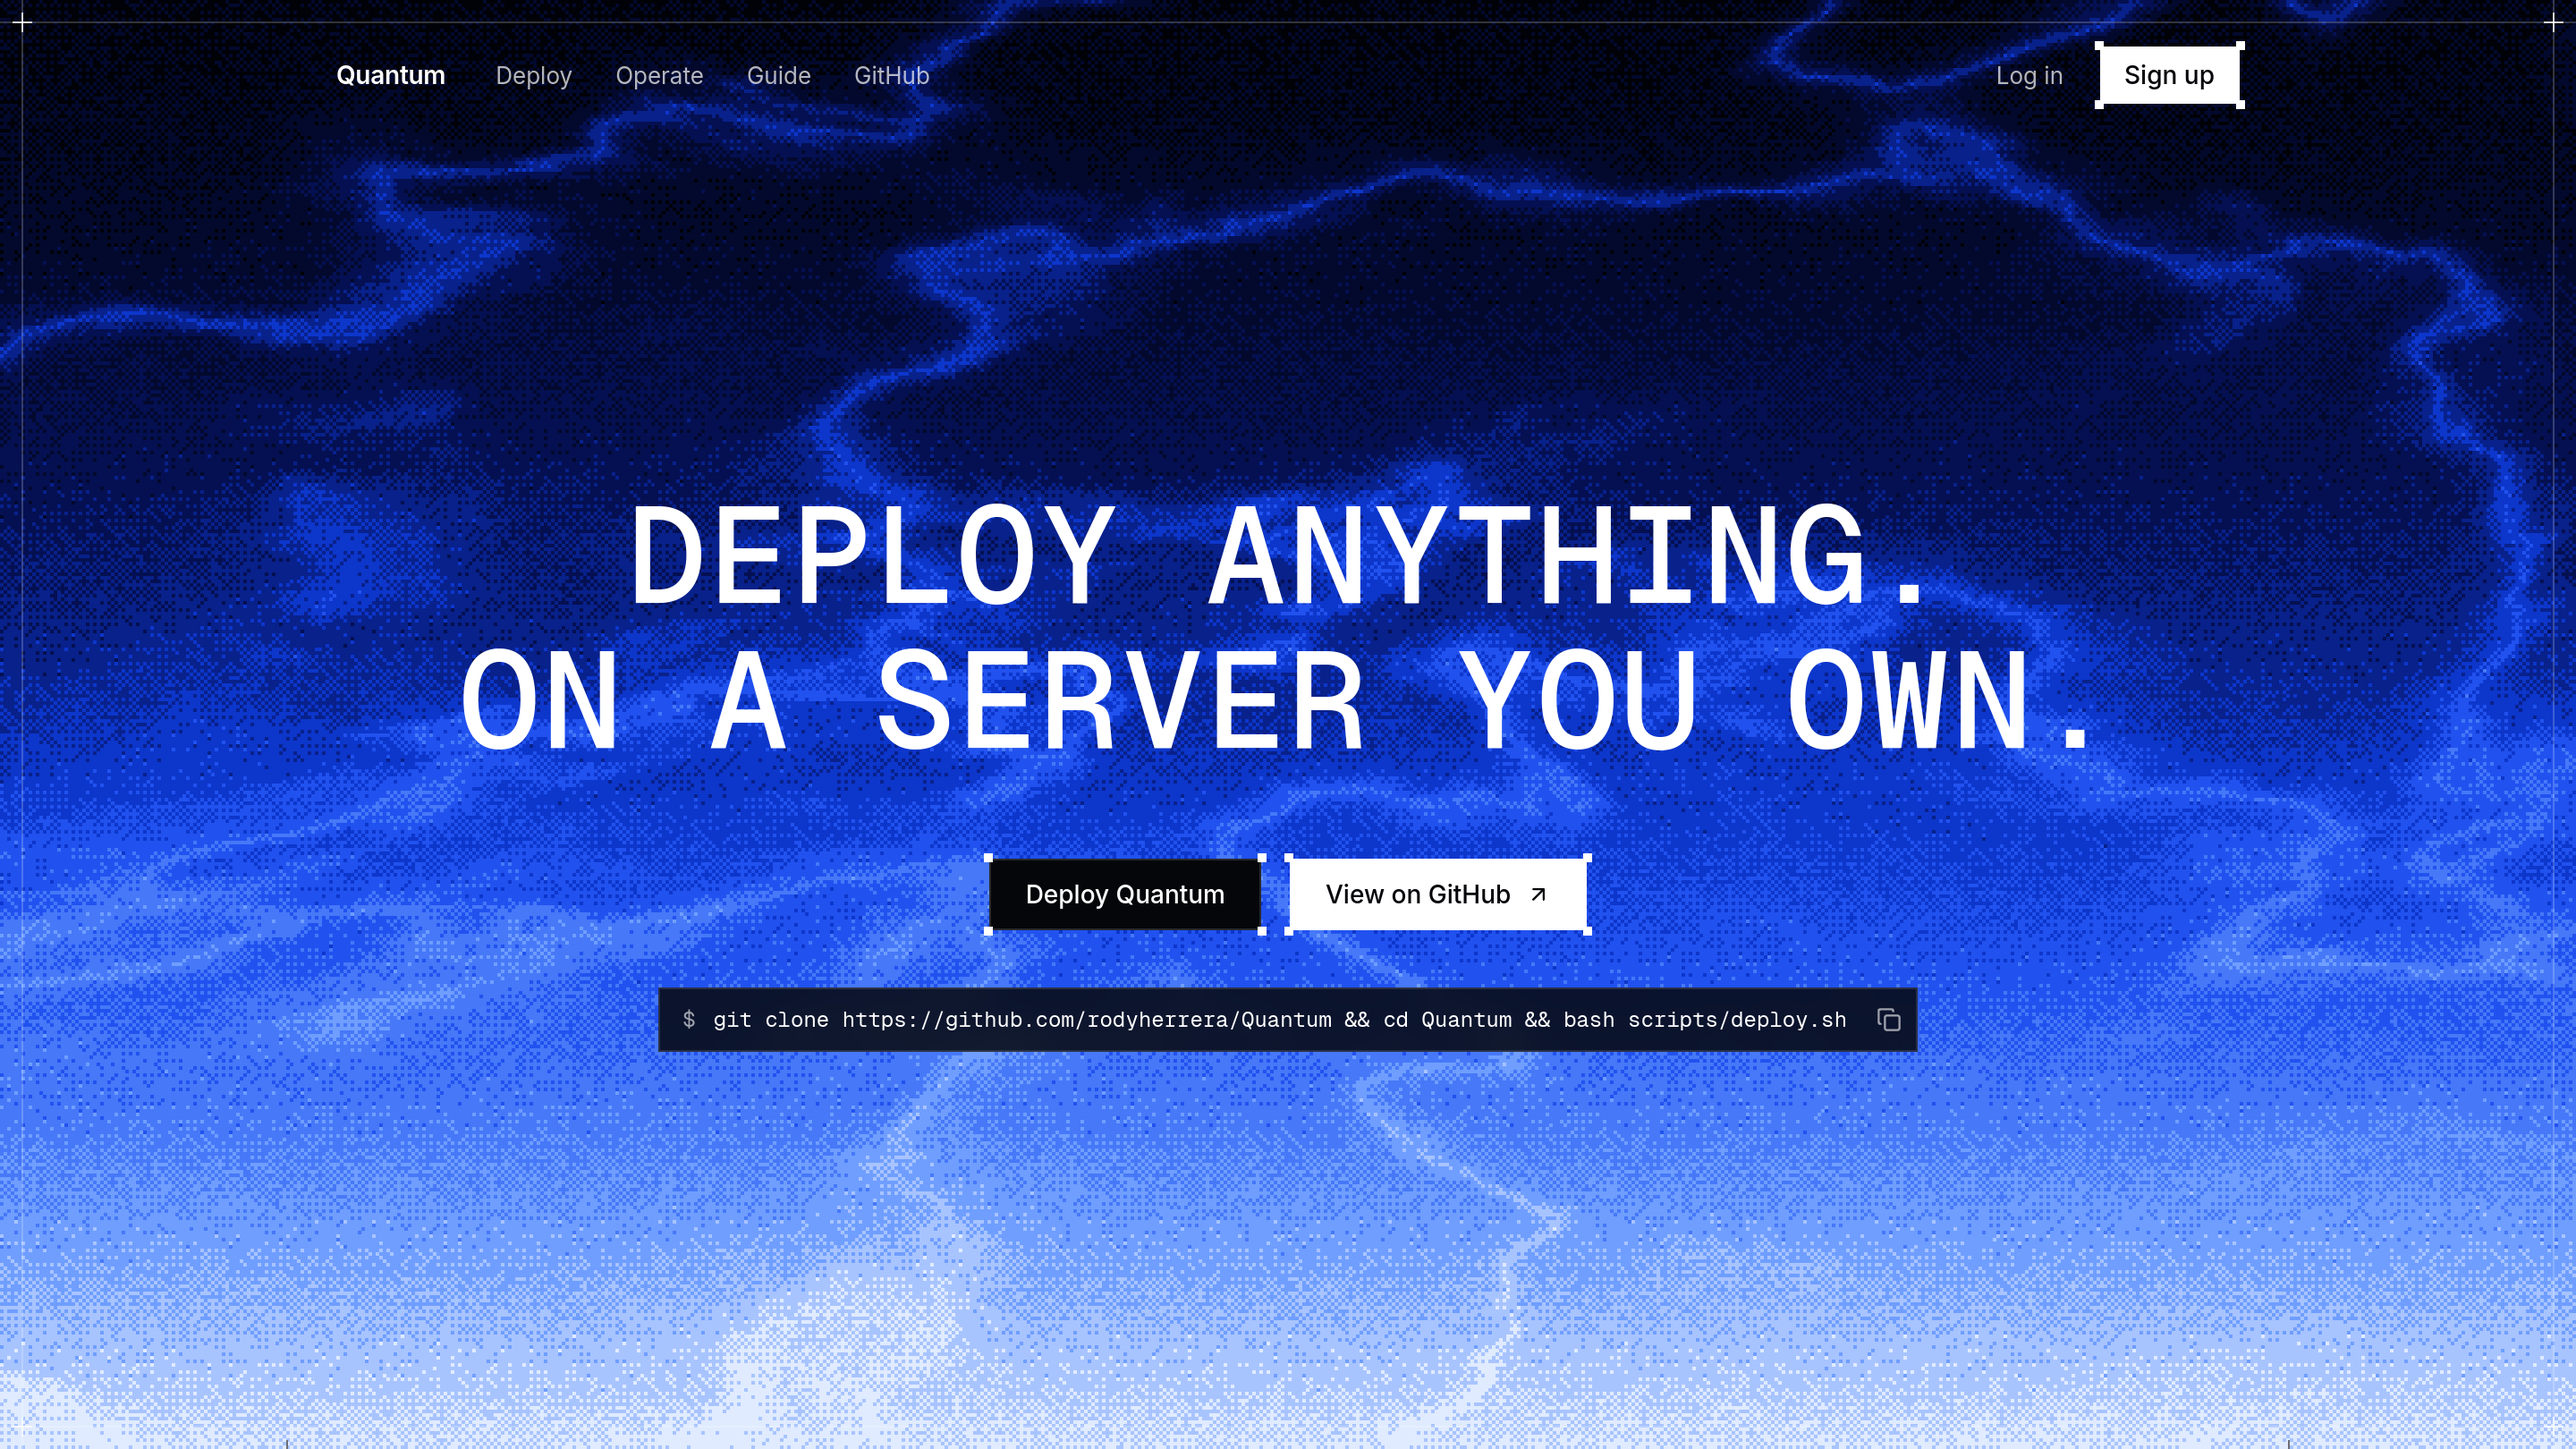
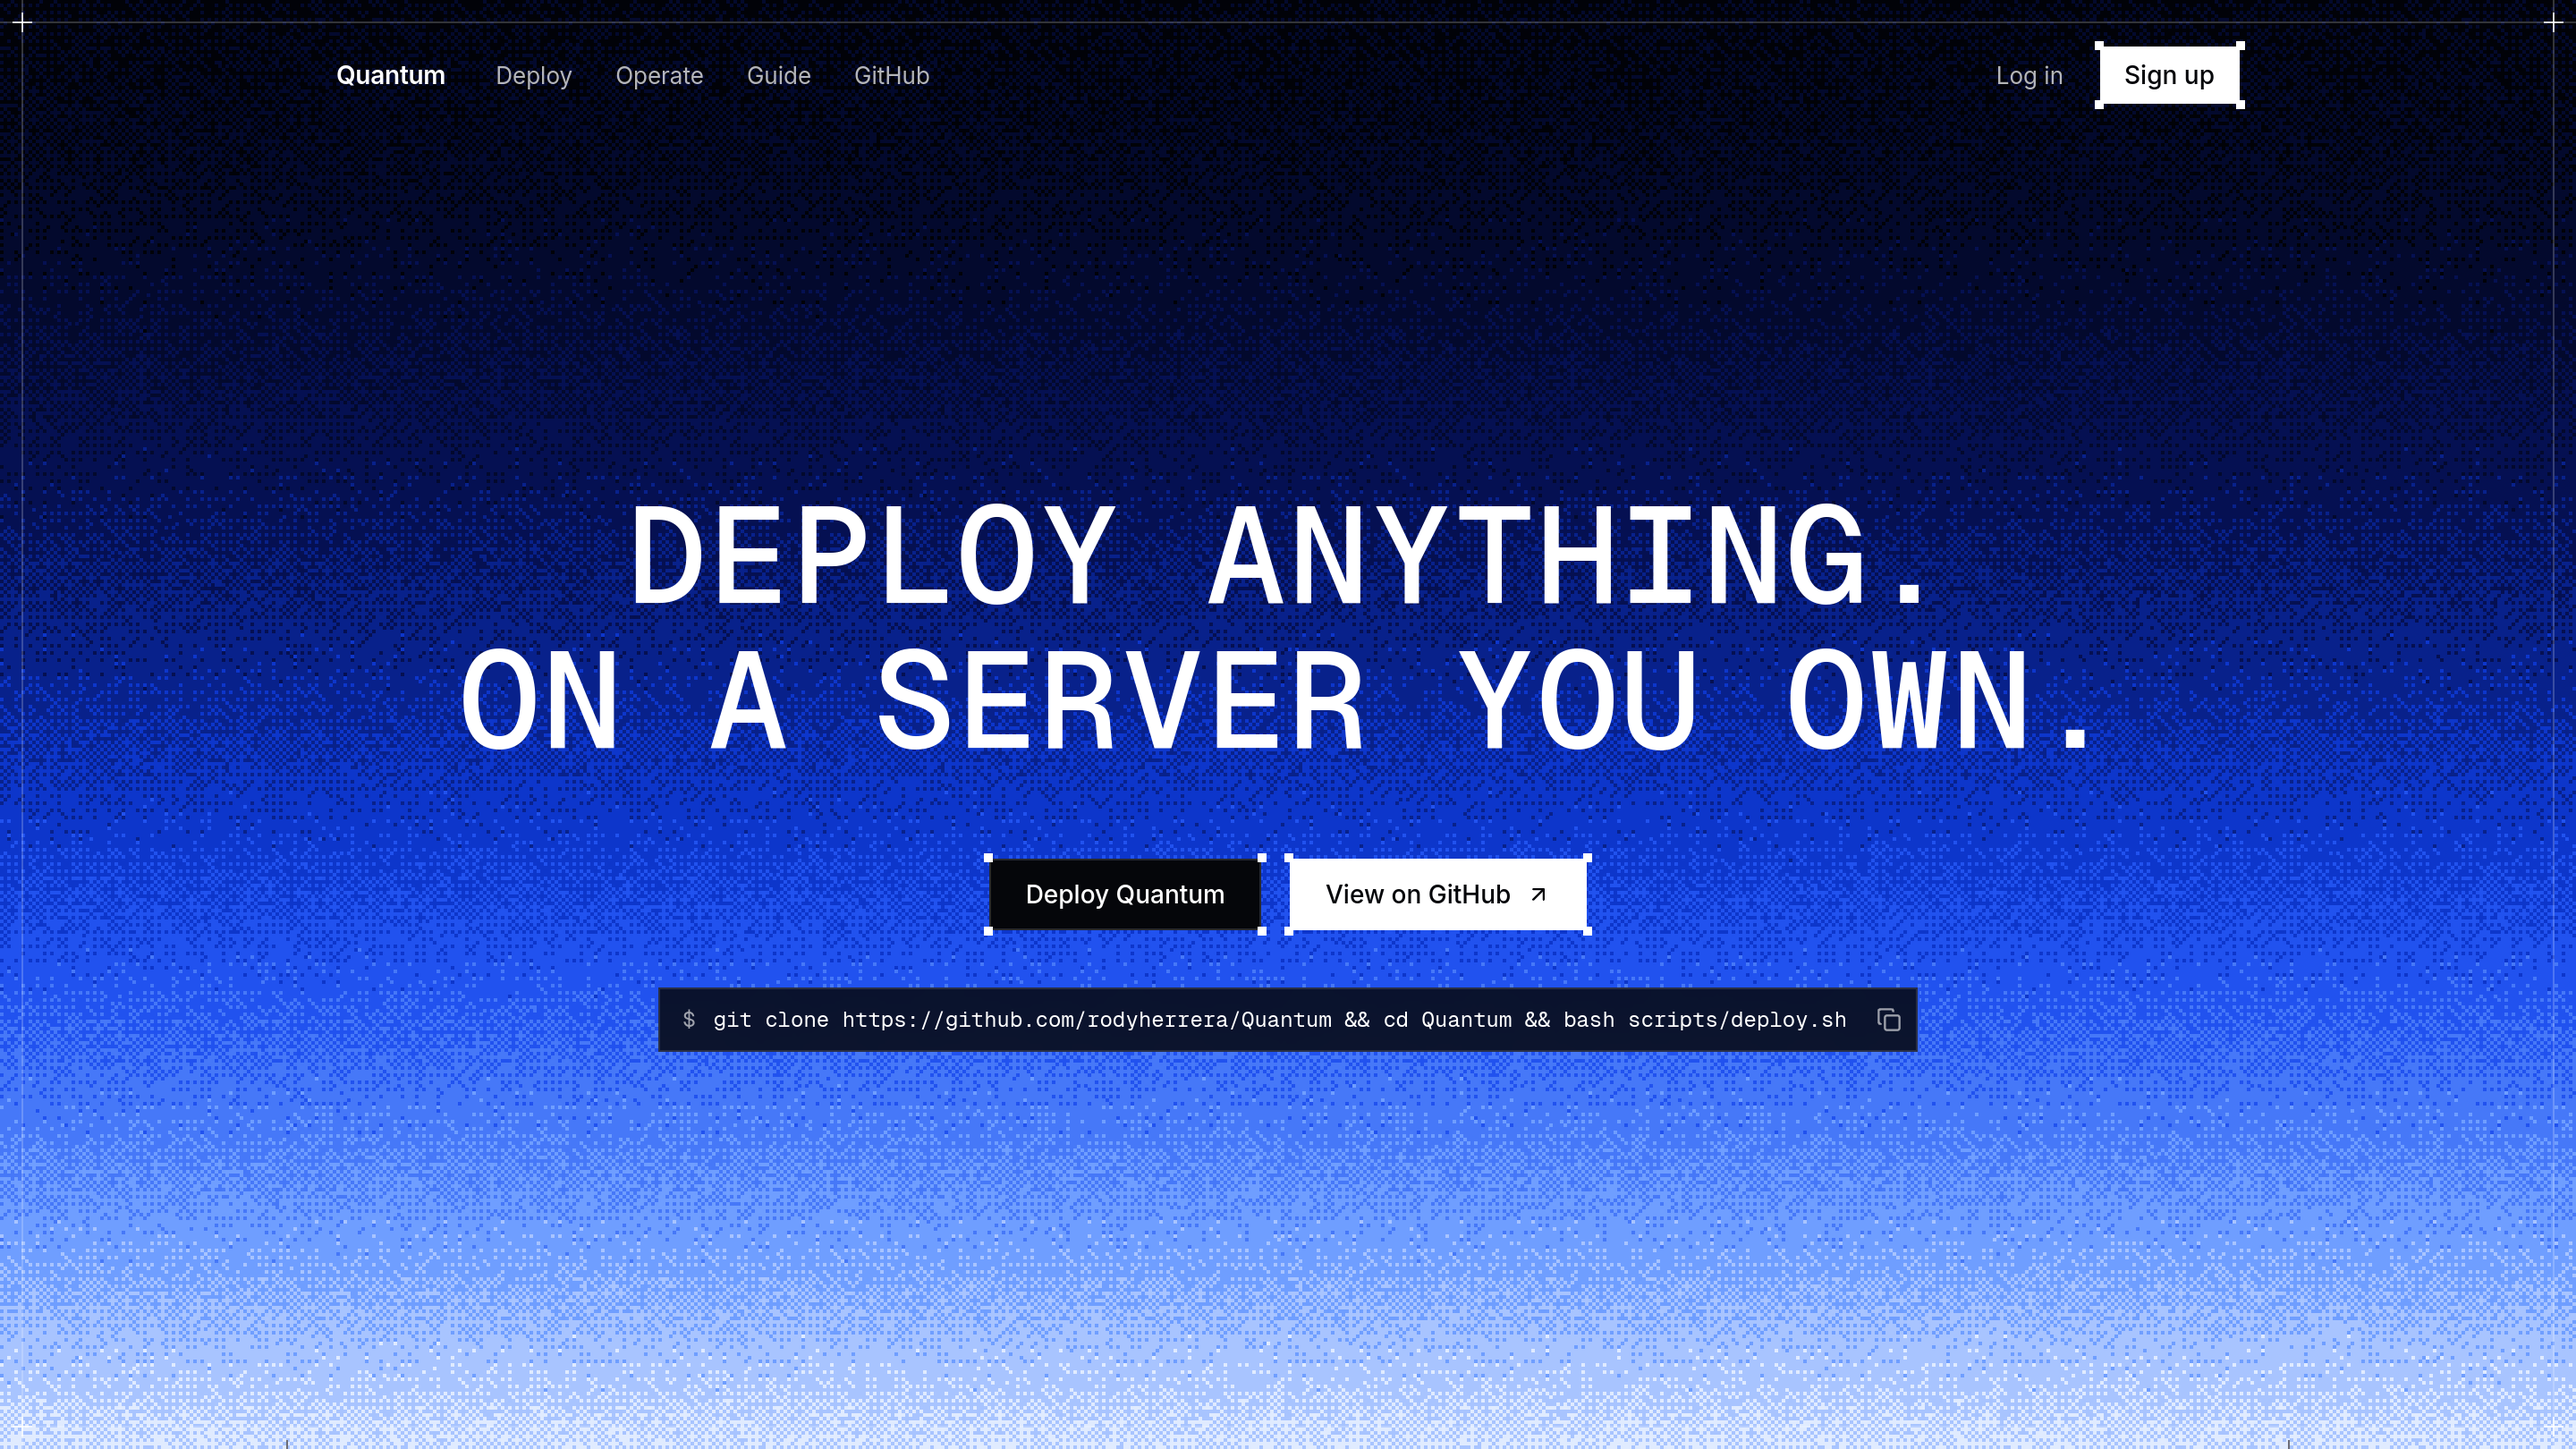
fix(web): no vein lines across the landing hero
The dither shader traced bright curved veins along the ridges of a noise
field. They are gone; the hero keeps the blue ramp, the soft haze and the
grain. The README cover is retaken.

diff --git a/packages/web/src/modules/home/utils/dither-shader.ts b/packages/web/src/modules/home/utils/dither-shader.ts
@@ -7,9 +7,8 @@ void main(){
 `;
 
 /*
- * One pixel per dither cell: a night-to-haze blue ramp from the top edge down, thin veins of drifting
- * smoke along the ridges of a warped noise field, and an 8x8 Bayer matrix that breaks every step of
- * the ramp into grain.
+ * One pixel per dither cell: a night-to-haze blue ramp from the top edge down, soft drifting haze from
+ * a warped noise field, and an 8x8 Bayer matrix that breaks every step of the ramp into grain.
  */
 export const DITHER_FRAGMENT = `
 precision highp float;
@@ -73,12 +72,10 @@ void main(){
 
     vec2 strand = vec2(p.x * 0.9 + p.y * 0.7, p.y * 2.4 - p.x * 0.45);
     vec2 warp = vec2(fbm(strand * 1.2 + vec2(t, 0.0)), fbm(strand * 1.2 + vec2(3.1, 7.7) - t));
-    float field = fbm(strand * 2.6 + warp * 2.2 + vec2(0.0, t));
-    float veins = pow(1.0 - abs(field * 2.0 - 1.0), 10.0);
     float haze = smoothstep(0.55, 0.9, fbm(strand * 1.1 - warp + vec2(t, 2.0)));
 
     float shade = 0.03 + pow(depth, 1.45) * 0.94;
-    shade += veins * (0.08 + 0.26 * (1.0 - depth)) + haze * 0.06;
+    shade += haze * 0.06;
     shade += (hash(cell) - 0.5) * 0.06;
 
     float steps = 9.0;
